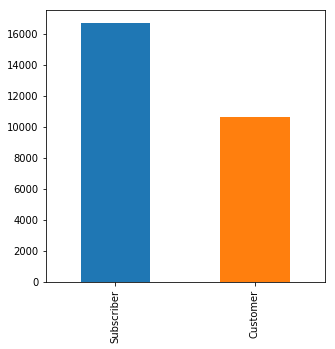
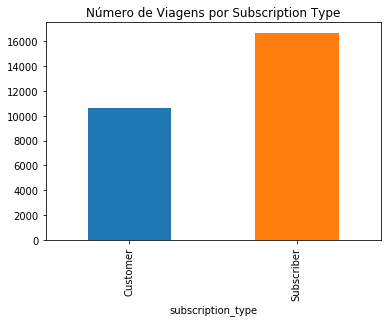
correçoes

diff --git a/readme.md b/readme.md
@@ -630,13 +630,15 @@ Na caixa abaixo, faça um gráfico de viagens x tipo de subscrição do tipo bar
 # TODO: plote um gráfico de barras que mostre quantidade de viagens por subscription_type
 # lembrando que quando o comando .plot é usado, se pode escolher o tipo de gráfico usando 
 # o parâmetro kind. Ex: plot(kind='bar')
-trip_data['subscription_type'].value_counts().plot(kind='bar',figsize=(5,5))
+group_subs = trip_data.groupby('subscription_type')['duration'].count()
+
+group_subs.plot( kind='bar', title="Número de Viagens por Subscription Type")
 ```
 
 
 
 
-    <matplotlib.axes._subplots.AxesSubplot at 0x22c4b5b9470>
+    <matplotlib.axes._subplots.AxesSubplot at 0x21fdacac0f0>
 
 
 
@@ -663,13 +665,13 @@ Parece que existe 50% mais viagens feitas por assinantes (subscribers) no primei
 
 ```python
 # TODO: Faça um gráfico baseado nas durações
-trip_data.groupby('duration', as_index= False).count().plot.hist()
+trip_data.groupby('duration', as_index= False).count().plot.hist("Número de Viagens por Duration")
 ```
 
 
 
 
-    <matplotlib.axes._subplots.AxesSubplot at 0x22c4b6bb9b0>
+    <matplotlib.axes._subplots.AxesSubplot at 0x21fdad38e80>
 
 
 
@@ -1041,28 +1043,6 @@ display(trip_data.head())
 </div>
 
 
-
-```python
-from matplotlib.gridspec import GridSpec
-
-# Gráfico final 1
-df1 = trip_data.groupby(['start_city','end_city'])['duration'].mean()
-df1.plot(kind='hist', figsize=(10,5))
-
-
-```
-
-
-
-
-    <matplotlib.axes._subplots.AxesSubplot at 0x16a419ff048>
-
-
-
-
-![png](output_55_1.png)
-
-
 # Pergunta 5a
 Explore os dados e faça um gráfico que demonstre alguma particularidade dos dados:
 
@@ -1206,7 +1186,7 @@ my_plot.set_ylabel("Duração")
 
 
 
-![png](output_59_1.png)
+![png](output_58_1.png)
 
 
 O que é interessante na visualização acima? Por que você a selecionou?
@@ -1257,7 +1237,7 @@ plt.show()
 ```
 
 
-![png](output_62_0.png)
+![png](output_61_0.png)
 
 
 O que é interessante na visualização acima? Por que você a selecionou?
